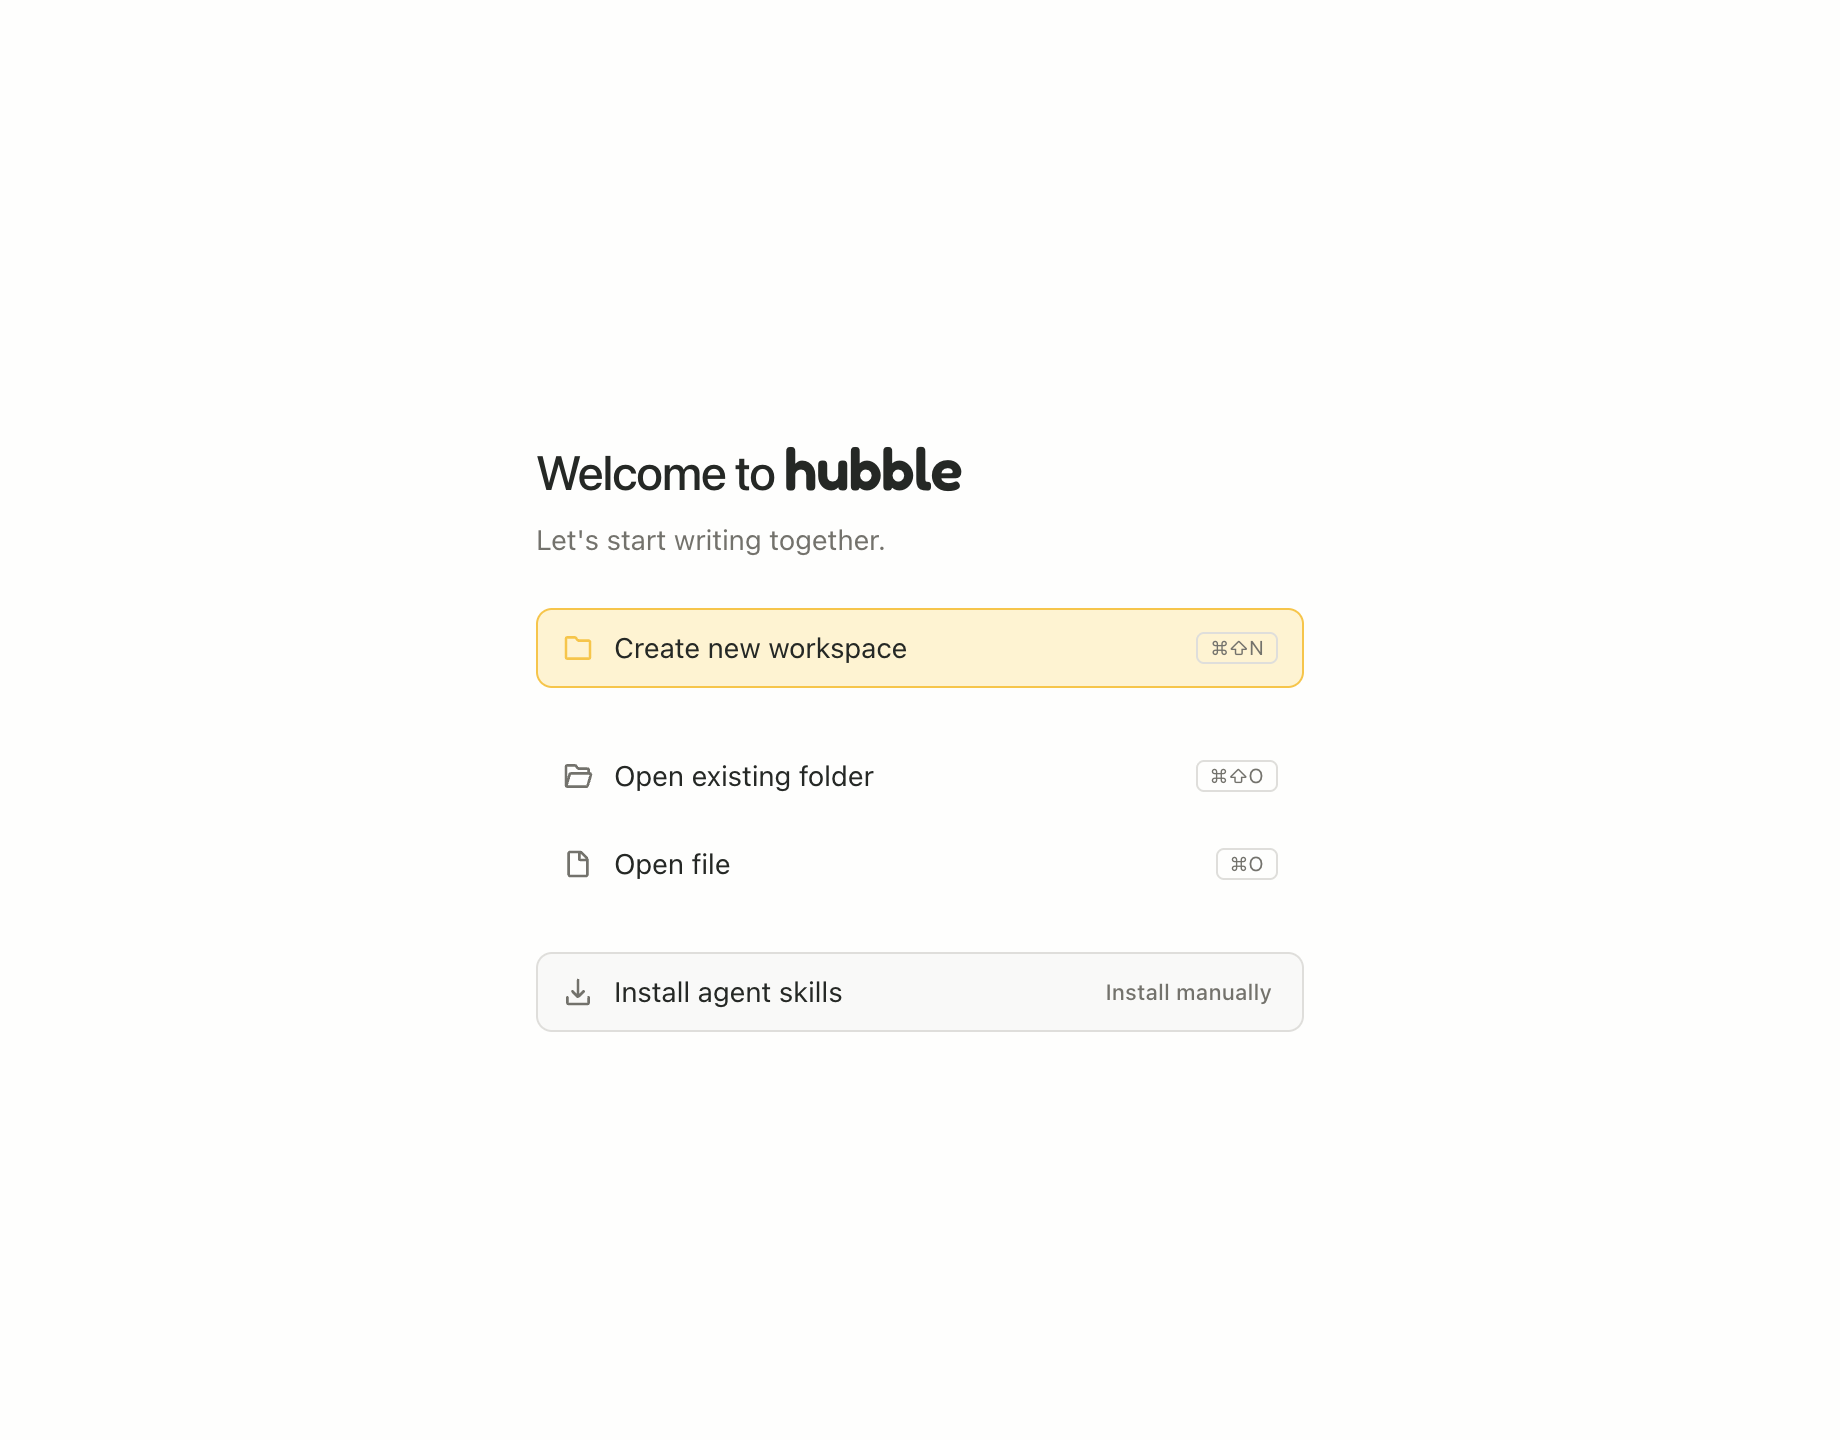
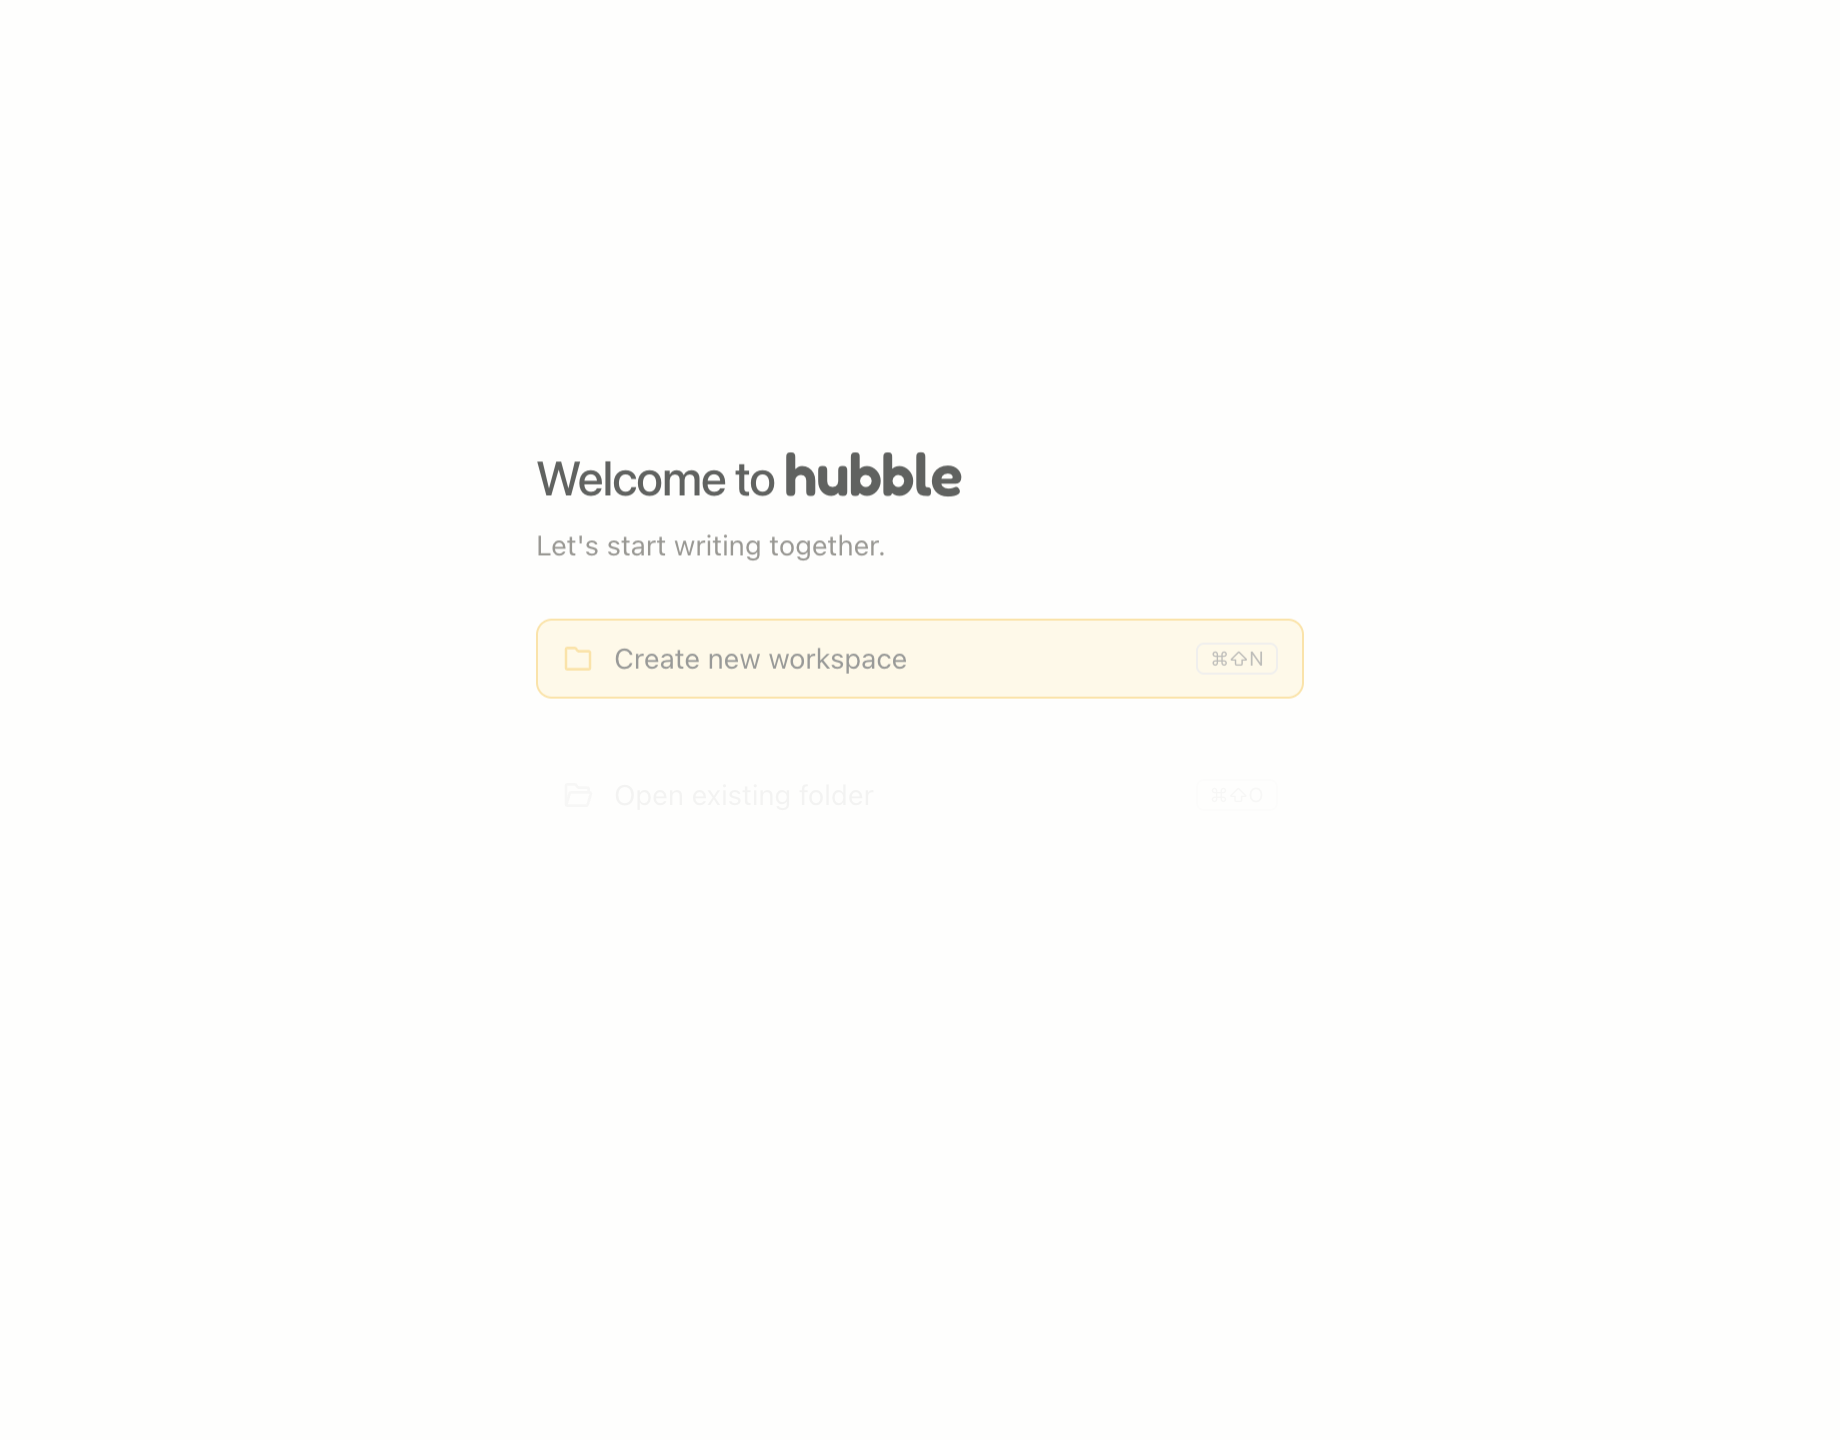
Fade welcome file actions to neutral hover backgrounds

diff --git a/apps/desktop/src/components/WelcomeScreen.tsx b/apps/desktop/src/components/WelcomeScreen.tsx
@@ -52,7 +52,7 @@ export function WelcomeScreen({
 					<div className="welcome-rise" style={{ animationDelay: "0.25s" }}>
 						<EmptyStateAction
 							icon={<MingcuteFolderOpenLine className="size-4" />}
-							className="min-h-10 border border-transparent px-3 py-2"
+							className="min-h-10 border border-transparent px-3 py-2 transition-colors duration-150 hover:bg-muted focus-visible:bg-muted motion-reduce:transition-none"
 							label="Open existing folder"
 							shortcut={folderShortcut}
 							onClick={onOpenFolder}
@@ -61,7 +61,7 @@ export function WelcomeScreen({
 					<div className="welcome-rise" style={{ animationDelay: "0.35s" }}>
 						<EmptyStateAction
 							icon={<MingcuteFileLine className="size-4" />}
-							className="min-h-10 border border-transparent px-3 py-2"
+							className="min-h-10 border border-transparent px-3 py-2 transition-colors duration-150 hover:bg-muted focus-visible:bg-muted motion-reduce:transition-none"
 							label="Open file"
 							shortcut={fileShortcut}
 							onClick={onOpenFile}

diff --git a/docs/verification/welcome/README.md b/docs/verification/welcome/README.md
@@ -6,7 +6,7 @@ Electron screenshots from a fresh, isolated profile:
 - [Skills installed](skills-installed.png): the entire skills row fades from gray to pale green without changing size.
 - [First workspace](inbox.png): the top bar returns and Inbox is selected.
 
-Verified in the real Electron app with native dialog results stubbed at the Electron boundary: all three buttons and keyboard shortcuts reach the expected picker, and creating a workspace creates and opens its folder. The welcome reveal uses 100 ms staggered delays and disables motion when reduced motion is requested.
+Verified in the real Electron app with native dialog results stubbed at the Electron boundary: all three buttons and keyboard shortcuts reach the expected picker, and creating a workspace creates and opens its folder. The welcome reveal uses 100 ms staggered delays and disables motion when reduced motion is requested. Folder and file actions fade to a neutral gray hover background over 150 ms, with transitions disabled for reduced motion.
 
 The skills row shares the Settings component's installation hook, installed indicator, and manual-install modal. Welcome changes the title, removes the description, and makes the entire filled panel an install button with a download icon. Install manually is an independent secondary button. The row matches the other welcome options' width, 40 px height, horizontal padding, and label typography. The panel has a small right inset while the manual-install button retains its standard horizontal padding. It transitions to pale green over 500 ms after installation, with motion disabled under reduced motion.
 
